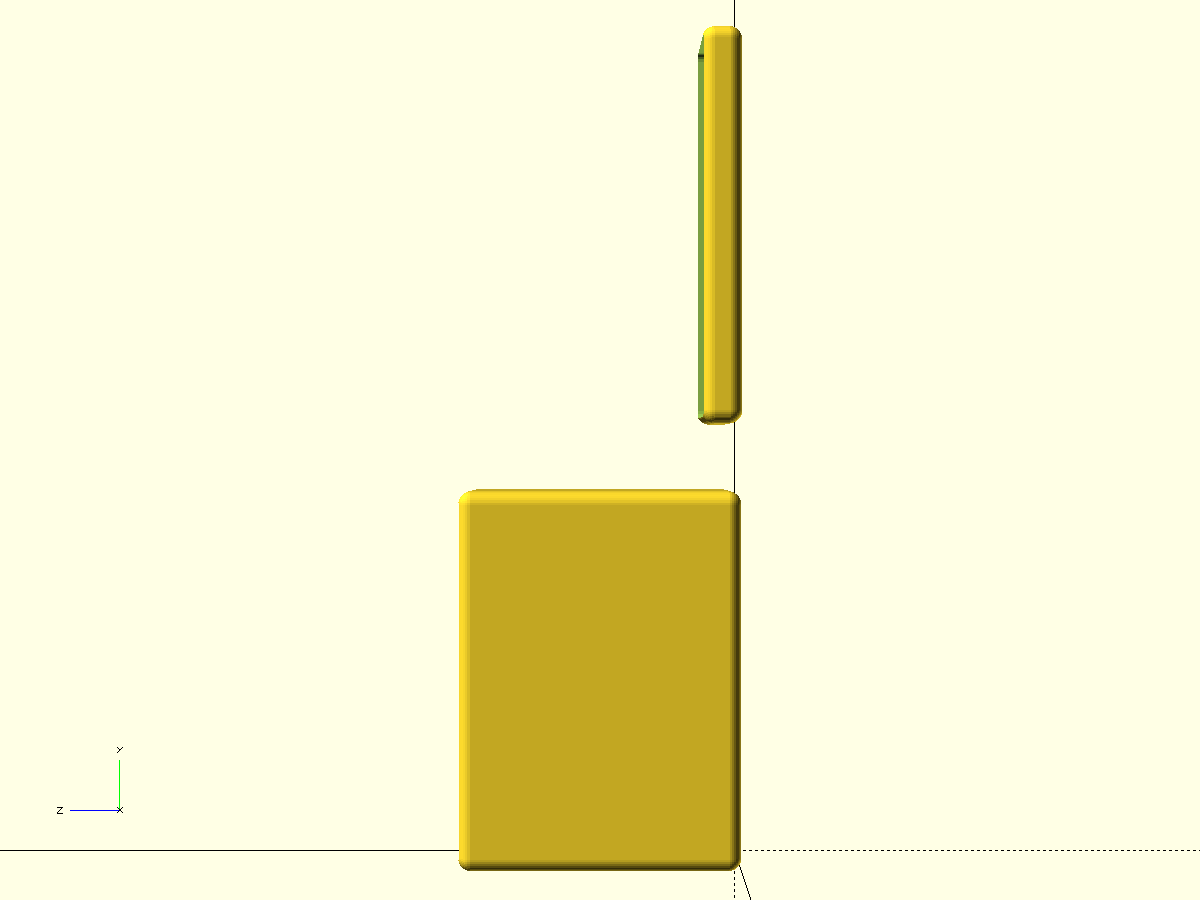
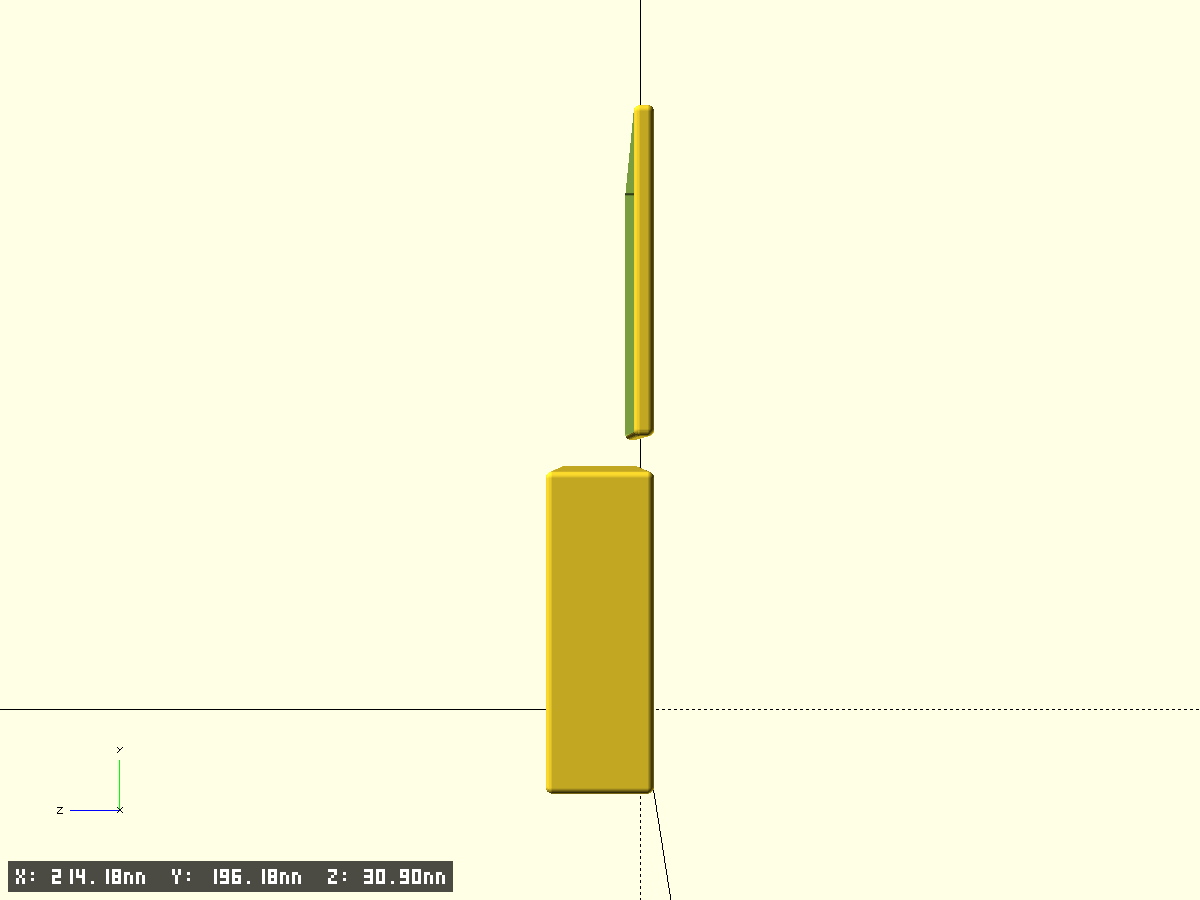
add some boxes, add ventilation stub

Changed region(s): [[0.0, 0.0311, 0.6167, 0.9956]]

diff --git a/models/README.md b/models/README.md
@@ -11,6 +11,9 @@
 | Audio Tools Case — base<br>2025-08-26<br>[2025-08-26-box-3-sections](2025-08-26-box-3-sections/)<br>[a1-hotends-box.scad](2025-08-26-box-3-sections/a1-hotends-box.scad) | Audio Tools Case — base | ![iso](2025-08-26-box-3-sections/preview.iso.png) ![xy](2025-08-26-box-3-sections/preview.xy.png) | ![xz](2025-08-26-box-3-sections/preview.xz.png) ![yz](2025-08-26-box-3-sections/preview.yz.png) |
 | Audio Tools Case — base<br>2025-08-26<br>[2025-08-26-box-3-sections](2025-08-26-box-3-sections/)<br>[audio-case.scad](2025-08-26-box-3-sections/audio-case.scad) | Audio Tools Case — base | ![iso](2025-08-26-box-3-sections/preview.iso.png) ![xy](2025-08-26-box-3-sections/preview.xy.png) | ![xz](2025-08-26-box-3-sections/preview.xz.png) ![yz](2025-08-26-box-3-sections/preview.yz.png) |
 | Box in safe<br>2025-08-26<br>[2025-08-26-box-3-sections](2025-08-26-box-3-sections/)<br>[case-in-case.scad](2025-08-26-box-3-sections/case-in-case.scad) | Box in safe | ![iso](2025-08-26-box-3-sections/preview.iso.png) ![xy](2025-08-26-box-3-sections/preview.xy.png) | ![xz](2025-08-26-box-3-sections/preview.xz.png) ![yz](2025-08-26-box-3-sections/preview.yz.png) |
+| Audio Tools Case — base<br>2025-08-26<br>[2025-08-26-box-3-sections](2025-08-26-box-3-sections/)<br>[gtone-box.scad](2025-08-26-box-3-sections/gtone-box.scad) | Audio Tools Case — base | ![iso](2025-08-26-box-3-sections/preview.iso.png) ![xy](2025-08-26-box-3-sections/preview.xy.png) | ![xz](2025-08-26-box-3-sections/preview.xz.png) ![yz](2025-08-26-box-3-sections/preview.yz.png) |
+| Audio Tools Case — base<br>2025-08-26<br>[2025-08-26-box-3-sections](2025-08-26-box-3-sections/)<br>[pipe-box.scad](2025-08-26-box-3-sections/pipe-box.scad) | Audio Tools Case — base | ![iso](2025-08-26-box-3-sections/preview.iso.png) ![xy](2025-08-26-box-3-sections/preview.xy.png) | ![xz](2025-08-26-box-3-sections/preview.xz.png) ![yz](2025-08-26-box-3-sections/preview.yz.png) |
+| Audio Tools Case — base<br>2025-08-26<br>[2025-08-26-box-3-sections](2025-08-26-box-3-sections/)<br>[wash-box.scad](2025-08-26-box-3-sections/wash-box.scad) | Audio Tools Case — base | ![iso](2025-08-26-box-3-sections/preview.iso.png) ![xy](2025-08-26-box-3-sections/preview.xy.png) | ![xz](2025-08-26-box-3-sections/preview.xz.png) ![yz](2025-08-26-box-3-sections/preview.yz.png) |
 | Audio Tools Case — base<br>2025-08-26<br>[2025-08-26-box-ecig-cartridges](2025-08-26-box-ecig-cartridges/)<br>[ecig-cartridges.scad](2025-08-26-box-ecig-cartridges/ecig-cartridges.scad) | Audio Tools Case — base | ![iso](2025-08-26-box-ecig-cartridges/preview.iso.png) ![xy](2025-08-26-box-ecig-cartridges/preview.xy.png) | ![xz](2025-08-26-box-ecig-cartridges/preview.xz.png) ![yz](2025-08-26-box-ecig-cartridges/preview.yz.png) |
 | Circular Plate Cap Ø123.6 (shell 1 mm, height 5 mm)<br>2025-08-26<br>[2025-08-26-cup-cap-76](2025-08-26-cup-cap-76/)<br>[cup-cap-76.scad](2025-08-26-cup-cap-76/cup-cap-76.scad) | Circular Plate Cap Ø76.1 (shell 1 mm, height 10 mm) | ![iso](2025-08-26-cup-cap-76/preview.iso.png) ![xy](2025-08-26-cup-cap-76/preview.xy.png) | ![xz](2025-08-26-cup-cap-76/preview.xz.png) ![yz](2025-08-26-cup-cap-76/preview.yz.png) |
 | Mic Transceiver Box — inner 100x35x17, base + cap<br>2025-08-26<br>[2025-08-26-mic-transiever-box](2025-08-26-mic-transiever-box/)<br>[mic-box.scad](2025-08-26-mic-transiever-box/mic-box.scad) | Mic Transceiver Box — inner 100x35x17, base + cap | ![iso](2025-08-26-mic-transiever-box/preview.iso.png) ![xy](2025-08-26-mic-transiever-box/preview.xy.png) | ![xz](2025-08-26-mic-transiever-box/preview.xz.png) ![yz](2025-08-26-mic-transiever-box/preview.yz.png) |
@@ -19,5 +22,6 @@
 | funnel — воронка из 3 модулей<br>2025-09-04<br>[2025-09-04-funnel](2025-09-04-funnel/)<br>[funnel.scad](2025-09-04-funnel/funnel.scad) | — | ![iso](2025-09-04-funnel/preview.iso.png) ![xy](2025-09-04-funnel/preview.xy.png) | ![xz](2025-09-04-funnel/preview.xz.png) ![yz](2025-09-04-funnel/preview.yz.png) |
 | Audio Tools Case — base<br>2025-09-06<br>[2025-09-06-cells-box-5-sections](2025-09-06-cells-box-5-sections/)<br>[cell-box.scad](2025-09-06-cells-box-5-sections/cell-box.scad) | Audio Tools Case — base | ![iso](2025-09-06-cells-box-5-sections/preview.iso.png) ![xy](2025-09-06-cells-box-5-sections/preview.xy.png) | ![xz](2025-09-06-cells-box-5-sections/preview.xz.png) ![yz](2025-09-06-cells-box-5-sections/preview.yz.png) |
 | nux mighty air cover<br>2025-09-10<br>[2025-09-10-nux-mighty-air-cover](2025-09-10-nux-mighty-air-cover/)<br>[nux-cover.scad](2025-09-10-nux-mighty-air-cover/nux-cover.scad) | Thin cover plate 140.9x52x1 mm, bottom corners R5, two holes | ![iso](2025-09-10-nux-mighty-air-cover/preview.iso.png) ![xy](2025-09-10-nux-mighty-air-cover/preview.xy.png) | ![xz](2025-09-10-nux-mighty-air-cover/preview.xz.png) ![yz](2025-09-10-nux-mighty-air-cover/preview.yz.png) |
+| ventilation stub — flat plate with 4 mount holes<br>2025-09-21<br>[2025-09-21-ventilation-stub](2025-09-21-ventilation-stub/)<br>[ventilation-stub.scad](2025-09-21-ventilation-stub/ventilation-stub.scad) | 120x120x2 mm plate with 4 holes Ø3.5, 103.5 mm spacing | ![iso](2025-09-21-ventilation-stub/preview.iso.png) ![xy](2025-09-21-ventilation-stub/preview.xy.png) | ![xz](2025-09-21-ventilation-stub/preview.xz.png) ![yz](2025-09-21-ventilation-stub/preview.yz.png) |
 | Rect shells, trays, rings and chamfers<br><br>[modules.scad](modules.scad/)<br> | Reusable base functions and modules for OpenSCAD models | — — | — — |
 | ${longName}<br><br>[template-default](template-default/)<br>[default.scad](template-default/default.scad) | ${shortDescription} | ![iso](template-default/preview.iso.png) ![xy](template-default/preview.xy.png) | ![xz](template-default/preview.xz.png) ![yz](template-default/preview.yz.png) |

diff --git a/models/2025-09-21-ventilation-stub/README.md b/models/2025-09-21-ventilation-stub/README.md
@@ -1,0 +1,33 @@
+# ventilation stub
+
+- Файл модели: `ventilation-stub.scad`
+- Версия: 1.0
+
+## Описание
+Плоская плита 120×120×2 мм с 4 отверстиями Ø3.5 мм. Расстояние между центрами отверстий 103.5 мм по обоим осям.
+
+## Фрагменты
+- base: основная деталь (плита с отверстиями)
+- plate_body: тело плиты
+- mount_holes: 4 крепёжных отверстия
+
+## Ключевые параметры (см. начало SCAD)
+- $fn, $fa, $fs, pin_fs — точность окружностей
+- test_fragment, frag_* — тест‑фрагменты
+- edge_chamfer_*, tiny — фаски/совм.
+
+Основные размеры:
+- `plate_x`, `plate_y` — 120×120 мм
+- `base_h` — толщина 2 мм
+- `hole_diam` — Ø3.5 мм
+- `holes_spacing` — 103.5 мм (между центрами по X и Y)
+
+## Превью
+
+![ventilation-stub iso](preview.iso.png)
+
+![ventilation-stub xy](preview.xy.png)
+
+![ventilation-stub xz](preview.xz.png)
+
+![ventilation-stub yz](preview.yz.png)
